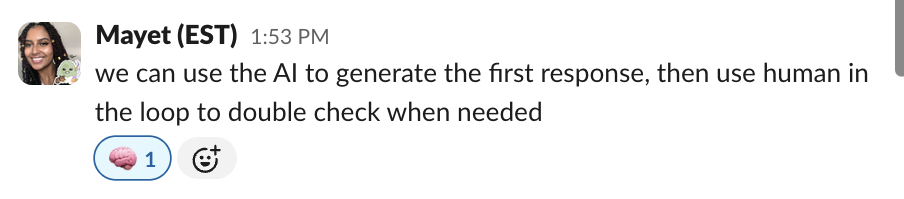
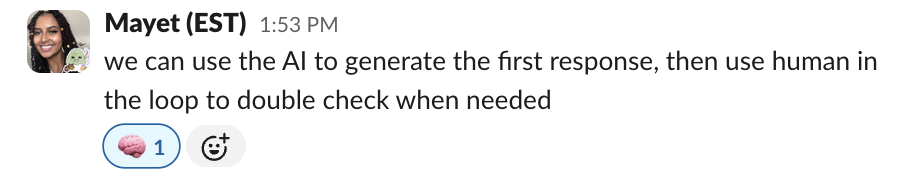
Make Mayet's suggestion screenshot larger (max-w-lg)

diff --git a/app/automation/refund-eligibility/page.tsx b/app/automation/refund-eligibility/page.tsx
@@ -334,7 +334,7 @@ Confidence Level: [High / Medium / Low]`}
               <img 
                 src="/mayet-suggestion.png" 
                 alt="Mayet suggesting human-in-the-loop approach in Slack" 
-                className="max-w-md mx-auto rounded-lg border border-border shadow-sm"
+                className="max-w-lg mx-auto rounded-lg border border-border shadow-sm"
               />
             </div>
             
